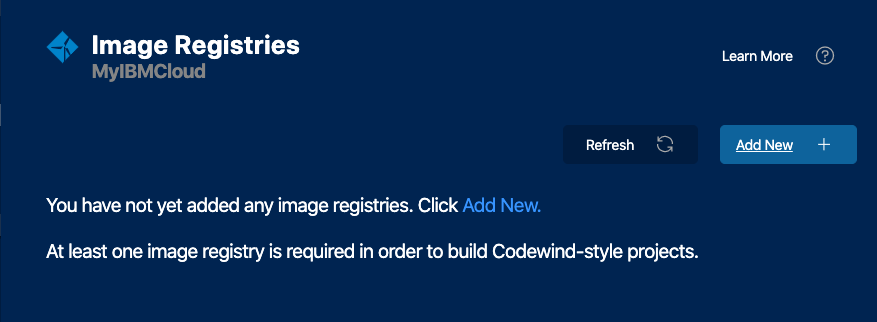
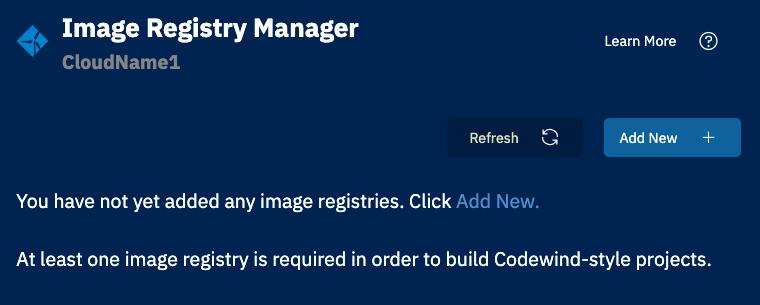
Update remote images

diff --git a/docs/_documentations/remotedeploy-eclipse.md b/docs/_documentations/remotedeploy-eclipse.md
@@ -30,7 +30,7 @@ The IDE and Codewind are connected.
 
 Before projects can be deployed on Kubernetes, you must specify a Docker registry. This example uses Docker Hub. 
 
-1\. If it's not already open, navigate to the connection details page, right-click the deployment, and select `Manage Deployment Registries`:
+1\. If it's not already open, navigate to the connection details page, right-click the deployment, and select `Manage Image Registries`:
 
 ![Docker Registry](./images/remoteeclipse/connectionSettings.png)
 
@@ -81,7 +81,7 @@ The project files are copied over to the Codewind server and the new `myFirstNod
 
 ![Build Success](./images/remoteeclipse/buildSuccess.png)
 
-`myFirstNodeProject` on `MyIBMCloud` is now running and ready.
+`myFirstNodeProject` on `CloudName1` cluster is now running and ready.
 
 Congratulations! In this topic you:
 

diff --git a/docs/_documentations/remote-removing.md b/docs/_documentations/remote-removing.md
@@ -95,7 +95,7 @@ INFO[0000] Kubernetes namespace: CWCTL will not remove the namespace automatical
 use 'kubectl delete namespace mycodewind-ns' if you would like to remove it
 ```
 
-Any previously configured IDEs are now in a `Disconnected` state. In this example, the remote deployment called `MyIBMCloud` is offline. Click the connection properties icon, and then click the `Remove Connection` button.
+Any previously configured IDEs are now in a `Disconnected` state. In this example, the remote deployment called `CloudName1` is offline. Click the connection properties icon, and then click the `Remove Connection` button.
 
 ![](./images/remotevs/removeConnection.png)
 

diff --git a/docs/_documentations/remotedeploy-vscode.md b/docs/_documentations/remotedeploy-vscode.md
@@ -90,7 +90,7 @@ Codewind prompts you to confirm the project type, in this case, identified as `N
 
 ![Build Success](./images/remotevs/buildSuccess.png)
 
-`myFirstProject` on `MyIBMCloud` is now running and ready.
+`myFirstNodeProject` on `CloudName1` cluster is now running and ready.
 
 Congratulations! In this topic you:
 
